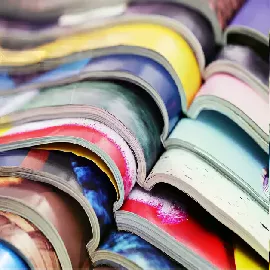
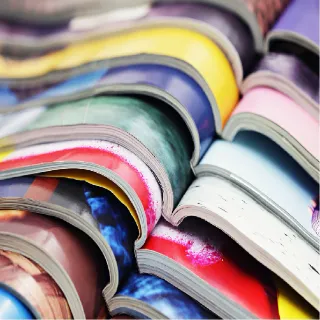
Resize img

diff --git a/style.min.css b/style.min.css
@@ -1,1 +1,1 @@
-body{margin:0;padding:0;background:#fff;overflow-x:hidden;-webkit-font-smoothing:antialiased;-moz-osx-font-smoothing:grayscale}a,button{transition:all .3s ease-in-out;outline:0!important}a:hover{text-decoration:none;cursor:pointer}#page-loading-blocs-notifaction{position:fixed;top:0;bottom:0;width:100%;z-index:100000;background:#fff url(img/pageload-spinner.gif) no-repeat center center}.bloc{width:100%;clear:both;background:50% 50% no-repeat;padding:0 50px;-webkit-background-size:cover;-moz-background-size:cover;-o-background-size:cover;background-size:cover;position:relative}.bloc .container{padding-left:0;padding-right:0}.bloc-lg{padding:100px 50px}.bloc-md{padding:50px}.bloc-sm{padding:20px 50px}.bg-b-edge,.bg-bl-edge,.bg-br-edge,.bg-center,.bg-l-edge,.bg-r-edge,.bg-repeat,.bg-t-edge,.bg-tl-edge,.bg-tr-edge{-webkit-background-size:auto!important;-moz-background-size:auto!important;-o-background-size:auto!important;background-size:auto!important}.bg-repeat{background:repeat}.bg-t-edge{background:top no-repeat}.bloc-bg-texture::before{content:"";background-size:2px 2px;position:absolute;top:0;bottom:0;left:0;right:0}.texture-paper::before{background:url(img/texture-paper.webp);background-size:280px 280px}.b-parallax{background-attachment:fixed}.d-bloc{color:rgba(255,255,255,.7)}.d-bloc button:hover{color:rgba(255,255,255,.9)}.d-bloc .icon-round,.d-bloc .icon-rounded,.d-bloc .icon-semi-rounded-a,.d-bloc .icon-semi-rounded-b,.d-bloc .icon-square{border-color:rgba(255,255,255,.9)}.d-bloc .divider-h span{border-color:rgba(255,255,255,.2)}.d-bloc .a-btn,.d-bloc .navbar a,.d-bloc .navbar-brand,.d-bloc a .icon-lg,.d-bloc a .icon-md,.d-bloc a .icon-sm,.d-bloc a .icon-xl,.d-bloc h1 a,.d-bloc h2 a,.d-bloc h3 a,.d-bloc h4 a,.d-bloc h5 a,.d-bloc h6 a,.d-bloc p a{color:rgba(255,255,255,.6)}.d-bloc .a-btn:hover,.d-bloc .navbar a:hover,.d-bloc .navbar-brand:hover,.d-bloc a:hover .icon-lg,.d-bloc a:hover .icon-md,.d-bloc a:hover .icon-sm,.d-bloc a:hover .icon-xl,.d-bloc h1 a:hover,.d-bloc h2 a:hover,.d-bloc h3 a:hover,.d-bloc h4 a:hover,.d-bloc h5 a:hover,.d-bloc h6 a:hover,.d-bloc p a:hover{color:#fff}.d-bloc .navbar-toggle .icon-bar{background:#fff}.d-bloc .btn-wire,.d-bloc .btn-wire:hover{color:#fff;border-color:#fff}.d-bloc .panel{color:rgba(0,0,0,.5)}.d-bloc .panel button:hover{color:rgba(0,0,0,.7)}.d-bloc .panel icon{border-color:rgba(0,0,0,.7)}.d-bloc .panel .divider-h span{border-color:rgba(0,0,0,.1)}.d-bloc .panel .a-btn{color:rgba(0,0,0,.6)}.d-bloc .panel .a-btn:hover{color:#000}.d-bloc .panel .btn-wire,.d-bloc .panel .btn-wire:hover{color:rgba(0,0,0,.7);border-color:rgba(0,0,0,.3)}.d-bloc .panel,.l-bloc{color:rgba(0,0,0,.5)}.d-bloc .panel button:hover,.l-bloc button:hover{color:rgba(0,0,0,.7)}.l-bloc .icon-round,.l-bloc .icon-rounded,.l-bloc .icon-semi-rounded-a,.l-bloc .icon-semi-rounded-b,.l-bloc .icon-square{border-color:rgba(0,0,0,.7)}.d-bloc .panel .divider-h span,.l-bloc .divider-h span{border-color:rgba(0,0,0,.1)}.d-bloc .panel .a-btn,.l-bloc .a-btn,.l-bloc .navbar a,.l-bloc .navbar-brand,.l-bloc a .icon-lg,.l-bloc a .icon-md,.l-bloc a .icon-sm,.l-bloc a .icon-xl,.l-bloc h1 a,.l-bloc h2 a,.l-bloc h3 a,.l-bloc h4 a,.l-bloc h5 a,.l-bloc h6 a,.l-bloc p a{color:rgba(0,0,0,.6)}.d-bloc .panel .a-btn:hover,.l-bloc .a-btn:hover,.l-bloc .navbar a:hover,.l-bloc .navbar-brand:hover,.l-bloc a:hover .icon-lg,.l-bloc a:hover .icon-md,.l-bloc a:hover .icon-sm,.l-bloc a:hover .icon-xl,.l-bloc h1 a:hover,.l-bloc h2 a:hover,.l-bloc h3 a:hover,.l-bloc h4 a:hover,.l-bloc h5 a:hover,.l-bloc h6 a:hover,.l-bloc p a:hover{color:#000}.l-bloc .navbar-toggle .icon-bar{color:rgba(0,0,0,.6)}.d-bloc .panel .btn-wire,.d-bloc .panel .btn-wire:hover,.l-bloc .btn-wire,.l-bloc .btn-wire:hover{color:rgba(0,0,0,.7);border-color:rgba(0,0,0,.3)}.voffset{margin-top:30px}.voffset-lg{margin-top:80px}.row-no-gutters{margin-right:0;margin-left:0}.row.row-no-gutters>[class*=" col-"],.row.row-no-gutters>[class^=col-]{padding-right:0;padding-left:0}#bloc-1-hero h1{font-size:32px;background-color:#00000033;margin:1rem 22% 0 22%;padding:1rem 0}.navbar{margin-bottom:0;z-index:1}.navbar-brand{height:auto;padding:3px 15px;font-size:25px;font-weight:400;font-weight:600;line-height:44px}.navbar-brand img{max-height:200px;margin:0 5px 0 0;display:inline}.navbar-brand img[src$=svg]{min-width:100px}.nav-center .navbar-brand img{margin:0}.navbar .nav{padding-top:2px;margin-right:-16px;float:right;z-index:1}.nav>li{float:left;margin-top:4px;font-size:16px}.navbar-nav .open .dropdown-menu>li>a{text-align:inherit}.nav>li a:focus,.nav>li a:hover{background:0 0}.navbar-toggle{margin:10px 10px 0 0;border:0}.navbar-toggle:hover{background:0 0!important}.navbar-toggle .icon-bar{background-color:rgba(0,0,0,.5);width:26px}.nav-invert .navbar .nav{float:left}.nav-invert .navbar-brand,.nav-invert .navbar-header{float:right;position:relative;z-index:2}@media (min-width:768px){.site-navigation{position:absolute;top:50%;right:20px;transform:translate(0,-50%);-webkit-transform:translateY(-50%)}.nav>li .dropdown-menu a,.nav>li .dropdown-menu a:hover{color:#484848}.nav-invert .site-navigation{left:0;right:0}.nav-center{text-align:center}.nav-center .navbar-header{width:100%}.nav-center .nav>li,.nav-center .navbar-brand,.nav-center .navbar-header{float:none;display:inline-block}.nav-center .site-navigation{position:relative;width:100%;right:0;margin-right:0;margin-top:20px}.nav-center.mini-nav .navbar-toggle{float:none;margin:10px auto 0}}.nav>li>.dropdown a{background:0 0!important;display:block;padding:14px 15px}nav .caret{margin:0 5px}.dropdown-menu .dropdown-menu{top:-8px;left:100%}.dropdown-menu .dropmenu-flow-right{top:100%;left:0;margin-left:-1px;border-top-left-radius:0;border-top-right-radius:0}.dropdown-menu .dropdown span{border:4px solid #000;border-top-color:transparent;border-right-color:transparent;border-bottom-color:transparent;margin:6px -5px 0 0!important;float:right}.mg-md{margin-top:10px;margin-bottom:20px}.mg-lg{margin-top:10px;margin-bottom:40px}.btn{margin:0 5px 5px 0}.btn.pull-right{margin:0 0 5px 5px}.btn-d,.btn-d:focus,.btn-d:hover{color:#fff;background:rgba(0,0,0,.3)}button{outline:0!important}.btn-rd{border-radius:40px}.btn-clean{border:1px solid rgba(0,0,0,.08);border-bottom-color:rgba(0,0,0,.1);text-shadow:0 1px 0 rgba(0,0,1,.1);box-shadow:0 1px 3px rgba(0,0,1,.25),inset 0 1px 0 0 rgba(255,255,255,.15)}.icon-md{font-size:48px!important}.icon-lg{font-size:60px!important}.sm-shadow{text-shadow:0 1px 2px rgba(0,0,0,.3)}.panel-sq,.panel-sq .panel-footer,.panel-sq .panel-heading{border-radius:0}.panel-rd{border-radius:30px}.panel-rd .panel-heading{border-radius:29px 29px 0 0}.panel-rd .panel-footer{border-radius:0 0 29px 29px}.form-control{border-color:rgba(0,0,0,.1);box-shadow:none}.scrollToTop{width:40px;height:40px;position:fixed;bottom:20px;right:20px;opacity:0;z-index:500;transition:all .3s ease-in-out}.scrollToTop span{margin-top:6px}.showScrollTop{font-size:14px;opacity:1}a[data-lightbox]{position:relative;display:block;text-align:center}a[data-lightbox]:hover::before{content:"+";font-family:HelveticaNeue-Light,"Helvetica Neue Light","Helvetica Neue",Helvetica,Arial;font-size:32px;width:50px;height:50px;margin-left:-25px;border-radius:50%;background:rgba(0,0,0,.6);color:#fff;font-weight:100;z-index:1;position:absolute;top:50%;transform:translateY(-50%);-webkit-transform:translateY(-50%)}a[data-lightbox]:hover img{opacity:.6;-webkit-animation-fill-mode:none;animation-fill-mode:none}#lightbox-modal{display:flex;align-items:center}#lightbox-modal .modal-dialog{width:90%;max-width:900px;margin:0 auto 0}#lightbox-modal .modal-dialog img{max-height:90vh;margin:0 auto}.lightbox-caption{padding:20px;color:#fff;background:rgba(0,0,0,.5);position:absolute;left:15px;right:15px;bottom:5px}.close-lightbox{color:#fff;font-size:30px;position:absolute;top:20px;right:20px;z-index:20;background:rgba(0,0,0,.5);border:none;line-height:30px;padding:0 9px 5px;opacity:.3}.close-lightbox:hover,.next-lightbox:hover,.prev-lightbox:hover{opacity:1;color:#fff}.next-lightbox,.prev-lightbox{font-size:20px;color:rgba(255,255,255,.9);background:rgba(0,0,0,.5);transition:all .2s ease-in-out;position:absolute;top:45%;z-index:1;opacity:.4}.next-lightbox{padding:6px 8px 1px 13px;right:25px}.prev-lightbox{padding:6px 13px 1px 10px;left:25px}.snapshot-lb .modal-body{padding-bottom:45px}.snapshot-lb .lightbox-caption{padding:0;color:rgba(0,0,0,.5);background:0 0}.btn,a,h1,h2,h3,h4,h5,h6,label,p{font-family:helvetica;font-weight:400;color:#000!important}.container{max-width:1000px}.hero-bloc-text{font-size:38px}.hero-bloc-text-sub{font-size:36px}.statement-bloc-text{line-height:26px;font-style:italic;font-size:20px;text-align:center;font-weight:lighter;max-width:520px;margin:auto auto auto auto}.tight-width-whitespace{max-width:600px;margin:auto auto auto auto}.h1{font-size:20px;font-family:"Open Sans"}.cta-hero{margin-top:22px;color:#fff!important;text-transform:uppercase;padding:12px 28px 12px 28px;font-size:16px;font-weight:700}.social{max-width:400px;margin:auto auto auto auto}h2{font-size:22px;line-height:1.4em}h3{font-size:15px;text-transform:uppercase;font-weight:700;color:#333!important}.med-width-whitespace{max-width:800px;margin:auto auto auto auto;box-shadow:0 0 0 #000}h1{color:#333!important}h4{color:#333!important}.icons{margin-bottom:14px;margin-top:24px}.white{color:#fff!important}.portfolio-thumb{margin-bottom:24px;width:100%}.portfolio-row{margin-bottom:44px;margin-top:50px}.avatar{box-shadow:0 4px 9px rgba(0,0,0,.3)}.black-background{background-color:rgba(165,147,99,.7);padding:40px 40px 40px 40px}.bold-link{font-weight:900;text-decoration:underline!important}.bgc-white{background-color:#fff}.bgc-dark-slate-blue{background-color:#364577}.bgc-atomic-tangerine{background-color:#f3976c}.tc-white{color:#fff!important}.btn-atomic-tangerine{background:#f3976c;color:#000!important}.btn-atomic-tangerine:hover{background:#c27956!important;color:#fff!important}.ltc-white{color:#fff!important}.ltc-white:hover{color:#ccc!important}.ltc-atomic-tangerine{color:#f3976c!important}.ltc-atomic-tangerine:hover{color:#c27956!important}.icon-dark-slate-blue{color:#364577!important;border-color:#364577!important}.bg-dots-bg{background-image:url(img/dots-bg.webp)}.bg-lines-h2-bg{background-image:url(img/lines-h2-bg.webp)}.bg-banniere{background-image:url(img/la-chouette-agence-banniere.webp)}.bg-presentation{background-image:url(img/image-de-presentation.webp)}.presentation-text{font-size:2rem}.citation{font-size:2.3rem;color:#000;font-style:italic}.citation_author{font-size:1.6rem}.footer_text{color:#000;font-size:2.4rem}.header-logo{height:55px;width:auto}.presentation-logo{width:100px;height:auto}.text-contact{font-size:2.4rem}@media (max-width:1024px){.bloc{padding-left:20px;padding-right:20px}.bloc-tile-2.full-width-bloc .container,.bloc-tile-3.full-width-bloc .container,.bloc-tile-4.full-width-bloc .container,.bloc.full-width-bloc{padding-left:0;padding-right:0}}@media (max-width:992px) and (min-width:768px){.navbar .nav{max-width:80%}.nav-center.navbar .nav{max-width:100%}}@media only screen and (min-width:768px) and (max-width:1024px) and (orientation:landscape){.b-parallax{background-attachment:scroll}}@media only screen and (min-width:1024px) and (max-width:1366px) and (-webkit-min-device-pixel-ratio:1.5){.b-parallax{background-attachment:scroll}}@media (max-width:991px){.container{width:100%}.b-parallax{background-attachment:scroll}#hero-bloc,.page-container{overflow-x:hidden;position:relative}.bloc-group,.bloc-group .bloc{display:block;width:100%}.bloc-fill-screen .fill-bloc-bottom-edge,.bloc-fill-screen .fill-bloc-top-edge{padding:0 20px}}@media (max-width:767px){.page-container{overflow-x:hidden;position:relative}#disqus_thread,h1,h2,h3,h4,h5,h6,p{padding-left:10px!important;padding-right:10px!important}.b-parallax{background-attachment:scroll}.navbar .nav{padding-top:0;border-top:1px solid rgba(0,0,0,.2);float:none!important}.navbar.row{margin-left:0;margin-right:0}.site-navigation{position:inherit;transform:none;-webkit-transform:none;-ms-transform:none}.nav>li{margin-top:0;border-bottom:1px solid rgba(0,0,0,.1);background:rgba(0,0,0,.05);text-align:left;padding-left:15px;width:100%}.nav>li:hover{background:rgba(0,0,0,.08)}.dropdown .dropdown a .caret{float:none;margin:5px 0 0 10px!important;border:4px solid #000;border-bottom-color:transparent;border-right-color:transparent;border-left-color:transparent}#hero-bloc .navbar .nav{background:rgba(0,0,0,.8)}#hero-bloc .navbar .nav a{color:rgba(255,255,255,.6)}.hero{padding:50px 0}.hero-nav{left:-1px;right:-1px}.navbar-collapse{padding:0;overflow-x:hidden;-webkit-box-shadow:none;box-shadow:none}.navbar-brand img{max-height:40px;width:auto}.nav-invert .navbar-header{float:none;width:100%}.nav-invert .navbar-toggle{float:left;margin-left:10px}.bloc{padding-left:0;padding-right:0}.bloc-lg,.bloc-xl,.bloc-xxl{padding:40px 0}.bloc-md,.bloc-sm{padding-left:0;padding-right:0}.bloc-fill-screen .fill-bloc-bottom-edge,.bloc-fill-screen .fill-bloc-top-edge,.bloc-tile-2 .container,.bloc-tile-3 .container,.bloc-tile-4 .container{padding-left:0;padding-right:0}.a-block{padding:0 10px}.btn-dwn{display:none}.voffset{margin-top:5px}.voffset-md{margin-top:20px}.voffset-lg{margin-top:30px}form{padding:5px}.close-lightbox{display:inline-block}.blocsapp-device-iphone5{background-size:216px 425px;padding-top:60px;width:216px;height:425px}.blocsapp-device-iphone5 img{width:180px;height:320px}}@media (max-width:400px){.bloc{padding-left:0;padding-right:0}}@media (max-width:767px){.bloc-mob-center-text{text-align:center}}
+body{margin:0;padding:0;background:#fff;overflow-x:hidden;-webkit-font-smoothing:antialiased;-moz-osx-font-smoothing:grayscale}a,button{transition:all .3s ease-in-out;outline:0!important}a:hover{text-decoration:none;cursor:pointer}#page-loading-blocs-notifaction{position:fixed;top:0;bottom:0;width:100%;z-index:100000;background:#fff url(img/pageload-spinner.gif) no-repeat center center}.bloc{width:100%;clear:both;background:50% 50% no-repeat;padding:0 50px;-webkit-background-size:cover;-moz-background-size:cover;-o-background-size:cover;background-size:cover;position:relative}.bloc .container{padding-left:0;padding-right:0}.bloc-lg{padding:100px 50px}.bloc-md{padding:50px}.bloc-sm{padding:20px 50px}.bg-b-edge,.bg-bl-edge,.bg-br-edge,.bg-center,.bg-l-edge,.bg-r-edge,.bg-repeat,.bg-t-edge,.bg-tl-edge,.bg-tr-edge{-webkit-background-size:auto!important;-moz-background-size:auto!important;-o-background-size:auto!important;background-size:auto!important}.bg-repeat{background:repeat}.bg-t-edge{background:top no-repeat}.bloc-bg-texture::before{content:"";background-size:2px 2px;position:absolute;top:0;bottom:0;left:0;right:0}.texture-paper::before{background:url(img/texture-paper.webp);background-size:280px 280px}.b-parallax{background-attachment:fixed}.d-bloc{color:rgba(255,255,255,.7)}.d-bloc button:hover{color:rgba(255,255,255,.9)}.d-bloc .icon-round,.d-bloc .icon-rounded,.d-bloc .icon-semi-rounded-a,.d-bloc .icon-semi-rounded-b,.d-bloc .icon-square{border-color:rgba(255,255,255,.9)}.d-bloc .divider-h span{border-color:rgba(255,255,255,.2)}.d-bloc .a-btn,.d-bloc .navbar a,.d-bloc .navbar-brand,.d-bloc a .icon-lg,.d-bloc a .icon-md,.d-bloc a .icon-sm,.d-bloc a .icon-xl,.d-bloc h1 a,.d-bloc h2 a,.d-bloc h3 a,.d-bloc h4 a,.d-bloc h5 a,.d-bloc h6 a,.d-bloc p a{color:rgba(255,255,255,.6)}.d-bloc .a-btn:hover,.d-bloc .navbar a:hover,.d-bloc .navbar-brand:hover,.d-bloc a:hover .icon-lg,.d-bloc a:hover .icon-md,.d-bloc a:hover .icon-sm,.d-bloc a:hover .icon-xl,.d-bloc h1 a:hover,.d-bloc h2 a:hover,.d-bloc h3 a:hover,.d-bloc h4 a:hover,.d-bloc h5 a:hover,.d-bloc h6 a:hover,.d-bloc p a:hover{color:#fff}.d-bloc .navbar-toggle .icon-bar{background:#fff}.d-bloc .btn-wire,.d-bloc .btn-wire:hover{color:#fff;border-color:#fff}.d-bloc .panel{color:rgba(0,0,0,.5)}.d-bloc .panel button:hover{color:rgba(0,0,0,.7)}.d-bloc .panel icon{border-color:rgba(0,0,0,.7)}.d-bloc .panel .divider-h span{border-color:rgba(0,0,0,.1)}.d-bloc .panel .a-btn{color:rgba(0,0,0,.6)}.d-bloc .panel .a-btn:hover{color:#000}.d-bloc .panel .btn-wire,.d-bloc .panel .btn-wire:hover{color:rgba(0,0,0,.7);border-color:rgba(0,0,0,.3)}.d-bloc .panel,.l-bloc{color:rgba(0,0,0,.5)}.d-bloc .panel button:hover,.l-bloc button:hover{color:rgba(0,0,0,.7)}.l-bloc .icon-round,.l-bloc .icon-rounded,.l-bloc .icon-semi-rounded-a,.l-bloc .icon-semi-rounded-b,.l-bloc .icon-square{border-color:rgba(0,0,0,.7)}.d-bloc .panel .divider-h span,.l-bloc .divider-h span{border-color:rgba(0,0,0,.1)}.d-bloc .panel .a-btn,.l-bloc .a-btn,.l-bloc .navbar a,.l-bloc .navbar-brand,.l-bloc a .icon-lg,.l-bloc a .icon-md,.l-bloc a .icon-sm,.l-bloc a .icon-xl,.l-bloc h1 a,.l-bloc h2 a,.l-bloc h3 a,.l-bloc h4 a,.l-bloc h5 a,.l-bloc h6 a,.l-bloc p a{color:rgba(0,0,0,.6)}.d-bloc .panel .a-btn:hover,.l-bloc .a-btn:hover,.l-bloc .navbar a:hover,.l-bloc .navbar-brand:hover,.l-bloc a:hover .icon-lg,.l-bloc a:hover .icon-md,.l-bloc a:hover .icon-sm,.l-bloc a:hover .icon-xl,.l-bloc h1 a:hover,.l-bloc h2 a:hover,.l-bloc h3 a:hover,.l-bloc h4 a:hover,.l-bloc h5 a:hover,.l-bloc h6 a:hover,.l-bloc p a:hover{color:#000}.l-bloc .navbar-toggle .icon-bar{color:rgba(0,0,0,.6)}.d-bloc .panel .btn-wire,.d-bloc .panel .btn-wire:hover,.l-bloc .btn-wire,.l-bloc .btn-wire:hover{color:rgba(0,0,0,.7);border-color:rgba(0,0,0,.3)}.voffset{margin-top:30px}.voffset-lg{margin-top:80px}.row-no-gutters{margin-right:0;margin-left:0}.row.row-no-gutters>[class*=" col-"],.row.row-no-gutters>[class^=col-]{padding-right:0;padding-left:0}#bloc-1-hero h1{font-size:32px;background-color:#00000033;margin:1rem 22% 0 22%;padding:1rem 0}.navbar{margin-bottom:0;z-index:1}.navbar-brand{height:auto;padding:3px 15px;font-size:25px;font-weight:400;font-weight:600;line-height:44px}.navbar-brand img{max-height:200px;margin:0 5px 0 0;display:inline}.navbar-brand img[src$=svg]{min-width:100px}.nav-center .navbar-brand img{margin:0}.navbar .nav{padding-top:2px;margin-right:-16px;float:right;z-index:1}.nav>li{float:left;margin-top:4px;font-size:16px}.navbar-nav .open .dropdown-menu>li>a{text-align:inherit}.nav>li a:focus,.nav>li a:hover{background:0 0}.navbar-toggle{margin:10px 10px 0 0;border:0}.navbar-toggle:hover{background:0 0!important}.navbar-toggle .icon-bar{background-color:rgba(0,0,0,.5);width:26px}.nav-invert .navbar .nav{float:left}.nav-invert .navbar-brand,.nav-invert .navbar-header{float:right;position:relative;z-index:2}@media (min-width:768px){.site-navigation{position:absolute;top:50%;right:20px;transform:translate(0,-50%);-webkit-transform:translateY(-50%)}.nav>li .dropdown-menu a,.nav>li .dropdown-menu a:hover{color:#484848}.nav-invert .site-navigation{left:0;right:0}.nav-center{text-align:center}.nav-center .navbar-header{width:100%}.nav-center .nav>li,.nav-center .navbar-brand,.nav-center .navbar-header{float:none;display:inline-block}.nav-center .site-navigation{position:relative;width:100%;right:0;margin-right:0;margin-top:20px}.nav-center.mini-nav .navbar-toggle{float:none;margin:10px auto 0}}.nav>li>.dropdown a{background:0 0!important;display:block;padding:14px 15px}nav .caret{margin:0 5px}.dropdown-menu .dropdown-menu{top:-8px;left:100%}.dropdown-menu .dropmenu-flow-right{top:100%;left:0;margin-left:-1px;border-top-left-radius:0;border-top-right-radius:0}.dropdown-menu .dropdown span{border:4px solid #000;border-top-color:transparent;border-right-color:transparent;border-bottom-color:transparent;margin:6px -5px 0 0!important;float:right}.mg-md{margin-top:10px;margin-bottom:20px}.mg-lg{margin-top:10px;margin-bottom:40px}.btn{margin:0 5px 5px 0}.btn.pull-right{margin:0 0 5px 5px}.btn-d,.btn-d:focus,.btn-d:hover{color:#fff;background:rgba(0,0,0,.3)}button{outline:0!important}.btn-rd{border-radius:40px}.btn-clean{border:1px solid rgba(0,0,0,.08);border-bottom-color:rgba(0,0,0,.1);text-shadow:0 1px 0 rgba(0,0,1,.1);box-shadow:0 1px 3px rgba(0,0,1,.25),inset 0 1px 0 0 rgba(255,255,255,.15)}.icon-md{font-size:48px!important}.icon-lg{font-size:60px!important}.sm-shadow{text-shadow:0 1px 2px rgba(0,0,0,.3)}.panel-sq,.panel-sq .panel-footer,.panel-sq .panel-heading{border-radius:0}.panel-rd{border-radius:30px}.panel-rd .panel-heading{border-radius:29px 29px 0 0}.panel-rd .panel-footer{border-radius:0 0 29px 29px}.form-control{border-color:rgba(0,0,0,.1);box-shadow:none}.scrollToTop{width:40px;height:40px;position:fixed;bottom:20px;right:20px;opacity:0;z-index:500;transition:all .3s ease-in-out}.scrollToTop span{margin-top:6px}.showScrollTop{font-size:14px;opacity:1}a[data-lightbox]{position:relative;display:block;text-align:center}a[data-lightbox]:hover::before{content:"+";font-family:HelveticaNeue-Light,"Helvetica Neue Light","Helvetica Neue",Helvetica,Arial;font-size:32px;width:50px;height:50px;margin-left:-25px;border-radius:50%;background:rgba(0,0,0,.6);color:#fff;font-weight:100;z-index:1;position:absolute;top:50%;transform:translateY(-50%);-webkit-transform:translateY(-50%)}a[data-lightbox]:hover img{opacity:.6;-webkit-animation-fill-mode:none;animation-fill-mode:none}#lightbox-modal{display:flex;align-items:center}#lightbox-modal .modal-dialog{width:90%;max-width:900px;margin:0 auto 0}#lightbox-modal .modal-dialog img{max-height:90vh;margin:0 auto}.lightbox-caption{padding:20px;color:#fff;background:rgba(0,0,0,.5);position:absolute;left:15px;right:15px;bottom:5px}.close-lightbox{color:#fff;font-size:30px;position:absolute;top:20px;right:20px;z-index:20;background:rgba(0,0,0,.5);border:none;line-height:30px;padding:0 9px 5px;opacity:.3}.close-lightbox:hover,.next-lightbox:hover,.prev-lightbox:hover{opacity:1;color:#fff}.next-lightbox,.prev-lightbox{font-size:20px;color:rgba(255,255,255,.9);background:rgba(0,0,0,.5);transition:all .2s ease-in-out;position:absolute;top:45%;z-index:1;opacity:.4}.next-lightbox{padding:6px 8px 1px 13px;right:25px}.prev-lightbox{padding:6px 13px 1px 10px;left:25px}.snapshot-lb .modal-body{padding-bottom:45px}.snapshot-lb .lightbox-caption{padding:0;color:rgba(0,0,0,.5);background:0 0}.btn,a,h1,h2,h3,h4,h5,h6,label,p{font-family:helvetica;font-weight:400;color:#000!important}.container{max-width:1000px}.hero-bloc-text{font-size:38px}.hero-bloc-text-sub{font-size:36px}.statement-bloc-text{line-height:26px;font-style:italic;font-size:20px;text-align:center;font-weight:lighter;max-width:520px;margin:auto auto auto auto}.tight-width-whitespace{max-width:600px;margin:auto auto auto auto}.h1{font-size:20px;font-family:"Open Sans"}.cta-hero{margin-top:22px;color:#fff!important;text-transform:uppercase;padding:12px 28px 12px 28px;font-size:16px;font-weight:700}.social{max-width:400px;margin:auto auto auto auto}h2{font-size:22px;line-height:1.4em}h3{font-size:15px;text-transform:uppercase;font-weight:700;color:#333!important}.med-width-whitespace{max-width:800px;margin:auto auto auto auto;box-shadow:0 0 0 #000}h1{color:#333!important}h4{color:#333!important}.icons{margin-bottom:14px;margin-top:24px}.white{color:#fff!important}.portfolio-thumb{margin-bottom:24px;width:100%;}.portfolio-row{margin-bottom:44px;margin-top:50px}.avatar{box-shadow:0 4px 9px rgba(0,0,0,.3)}.black-background{background-color:rgba(165,147,99,.7);padding:40px 40px 40px 40px}.bold-link{font-weight:900;text-decoration:underline!important}.bgc-white{background-color:#fff}.bgc-dark-slate-blue{background-color:#364577}.bgc-atomic-tangerine{background-color:#f3976c}.tc-white{color:#fff!important}.btn-atomic-tangerine{background:#f3976c;color:#000!important}.btn-atomic-tangerine:hover{background:#c27956!important;color:#fff!important}.ltc-white{color:#fff!important}.ltc-white:hover{color:#ccc!important}.ltc-atomic-tangerine{color:#f3976c!important}.ltc-atomic-tangerine:hover{color:#c27956!important}.icon-dark-slate-blue{color:#364577!important;border-color:#364577!important}.bg-dots-bg{background-image:url(img/dots-bg.webp)}.bg-lines-h2-bg{background-image:url(img/lines-h2-bg.webp)}.bg-banniere{background-image:url(img/la-chouette-agence-banniere.webp)}.bg-presentation{background-image:url(img/image-de-presentation.webp)}.presentation-text{font-size:2rem}.citation{font-size:2.3rem;color:#000;font-style:italic}.citation_author{font-size:1.6rem}.footer_text{color:#000;font-size:2.4rem}.header-logo{height:55px;width:auto}.presentation-logo{width:100px;height:auto}.text-contact{font-size:2.4rem}@media (max-width:1024px){.bloc{padding-left:20px;padding-right:20px}.bloc-tile-2.full-width-bloc .container,.bloc-tile-3.full-width-bloc .container,.bloc-tile-4.full-width-bloc .container,.bloc.full-width-bloc{padding-left:0;padding-right:0}}@media (max-width:992px) and (min-width:768px){.navbar .nav{max-width:80%}.nav-center.navbar .nav{max-width:100%}}@media only screen and (min-width:768px) and (max-width:1024px) and (orientation:landscape){.b-parallax{background-attachment:scroll}}@media only screen and (min-width:1024px) and (max-width:1366px) and (-webkit-min-device-pixel-ratio:1.5){.b-parallax{background-attachment:scroll}}@media (max-width:991px){.container{width:100%}.b-parallax{background-attachment:scroll}#hero-bloc,.page-container{overflow-x:hidden;position:relative}.bloc-group,.bloc-group .bloc{display:block;width:100%}.bloc-fill-screen .fill-bloc-bottom-edge,.bloc-fill-screen .fill-bloc-top-edge{padding:0 20px}}@media (max-width:767px){.page-container{overflow-x:hidden;position:relative}#disqus_thread,h1,h2,h3,h4,h5,h6,p{padding-left:10px!important;padding-right:10px!important}.b-parallax{background-attachment:scroll}.navbar .nav{padding-top:0;border-top:1px solid rgba(0,0,0,.2);float:none!important}.navbar.row{margin-left:0;margin-right:0}.site-navigation{position:inherit;transform:none;-webkit-transform:none;-ms-transform:none}.nav>li{margin-top:0;border-bottom:1px solid rgba(0,0,0,.1);background:rgba(0,0,0,.05);text-align:left;padding-left:15px;width:100%}.nav>li:hover{background:rgba(0,0,0,.08)}.dropdown .dropdown a .caret{float:none;margin:5px 0 0 10px!important;border:4px solid #000;border-bottom-color:transparent;border-right-color:transparent;border-left-color:transparent}#hero-bloc .navbar .nav{background:rgba(0,0,0,.8)}#hero-bloc .navbar .nav a{color:rgba(255,255,255,.6)}.hero{padding:50px 0}.hero-nav{left:-1px;right:-1px}.navbar-collapse{padding:0;overflow-x:hidden;-webkit-box-shadow:none;box-shadow:none}.navbar-brand img{max-height:40px;width:auto}.nav-invert .navbar-header{float:none;width:100%}.nav-invert .navbar-toggle{float:left;margin-left:10px}.bloc{padding-left:0;padding-right:0}.bloc-lg,.bloc-xl,.bloc-xxl{padding:40px 0}.bloc-md,.bloc-sm{padding-left:0;padding-right:0}.bloc-fill-screen .fill-bloc-bottom-edge,.bloc-fill-screen .fill-bloc-top-edge,.bloc-tile-2 .container,.bloc-tile-3 .container,.bloc-tile-4 .container{padding-left:0;padding-right:0}.a-block{padding:0 10px}.btn-dwn{display:none}.voffset{margin-top:5px}.voffset-md{margin-top:20px}.voffset-lg{margin-top:30px}form{padding:5px}.close-lightbox{display:inline-block}.blocsapp-device-iphone5{background-size:216px 425px;padding-top:60px;width:216px;height:425px}.blocsapp-device-iphone5 img{width:180px;height:320px}}@media (max-width:400px){.bloc{padding-left:0;padding-right:0}}@media (max-width:767px){.bloc-mob-center-text{text-align:center}}

diff --git a/index.html b/index.html
@@ -262,8 +262,8 @@
                                         src="img/1.webp"
                                         alt="Plusieurs journaux"
                                         class="img-responsive portfolio-thumb"
-                                        width="628"
-                                        height="628"
+                                        width="320"
+                                        height="320"
                                 /></a>
                                 <h3 class="mg-md text-center">
                                     Refonte d'un site web pour un journal local
@@ -284,8 +284,8 @@
                                         src="img/2.webp"
                                         class="img-responsive portfolio-thumb"
                                         alt="Une personne prend une photo"
-                                        width="628"
-                                        height="628"
+                                        width="320"
+                                        height="320"
                                 /></a>
                                 <h3 class="mg-md text-center">
                                     Création d'un site web pour photographes

diff --git a/style.css b/style.css
@@ -743,7 +743,6 @@ h4 {
 
 .portfolio-thumb {
     margin-bottom: 24px;
-    width: 100%;
 }
 
 .portfolio-row {
